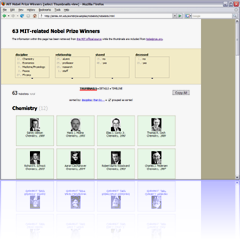
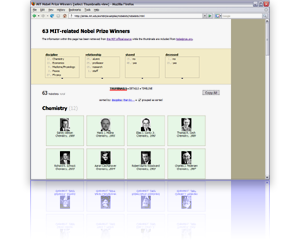
Updated home page. Better shadows and reflections.
git-svn-id: http://simile-widgets.googlecode.com/svn/exhibit/trunk@303 579c892a-5248-0410-a714-2bcf037eb5bf

diff --git a/src/webapp/index.html b/src/webapp/index.html
@@ -18,7 +18,6 @@
             cursor:         pointer;
         }
         p.example-image {
-            background: url(images/example-shadow.png) top center no-repeat;
         }
     </style>
     <script type="text/javascript">
@@ -30,6 +29,11 @@
                 .getElementsByTagName("img")[0].src =
                     "images/example-" + example + "-" + view + ".png";
         }
+        function onExampleViewClick() {
+            var example = this.getAttribute("example");
+            var href = document.getElementById("example-" + example + "-image").getElementsByTagName("a")[0].href;
+            window.open(href, "_blank");
+        }
         function onLoad() {
             var examples = [ "cereals", "nobelists", "presidents", "publications" ];
             for (var i = 0; i < examples.length; i++) {
@@ -37,6 +41,7 @@
                 var spans = div.getElementsByTagName("span");
                 for (var j = 0; j < spans.length; j++) {
                     spans[j].onmouseover = onExampleViewMouseOver;
+                    spans[j].onclick = onExampleViewClick;
                 }
             }
         }
@@ -72,7 +77,7 @@
     <p>Check out these diverse sample <em>exhibits</em>:</p>
     
     <center style="clear: both">
-        <table width="800" border="0" cellpadding="5" class="examples" style="margin-left: 50px;">
+        <table width="700" border="0" cellpadding="5" class="examples">
             <tr align="center">
                 <td width="50%">
                     <p class="example-heading"><a href="/exhibit/examples/cereals/cereal-characters.html" target="_blank">Breakfast Cereal Characters</a></p>
@@ -96,7 +101,7 @@
                 </td>
             </tr>
         </table>
-        <table width="800" border="0" cellpadding="5" class="examples" style="margin-right: 50px;">
+        <table width="700" border="0" cellpadding="5" class="examples">
             <tr align="center">
                 <td width="50%">
                     <p class="example-heading"><a href="examples/nobelists/nobelists.html" target="_blank">MIT-related Nobel Prize Winners</a></p>
